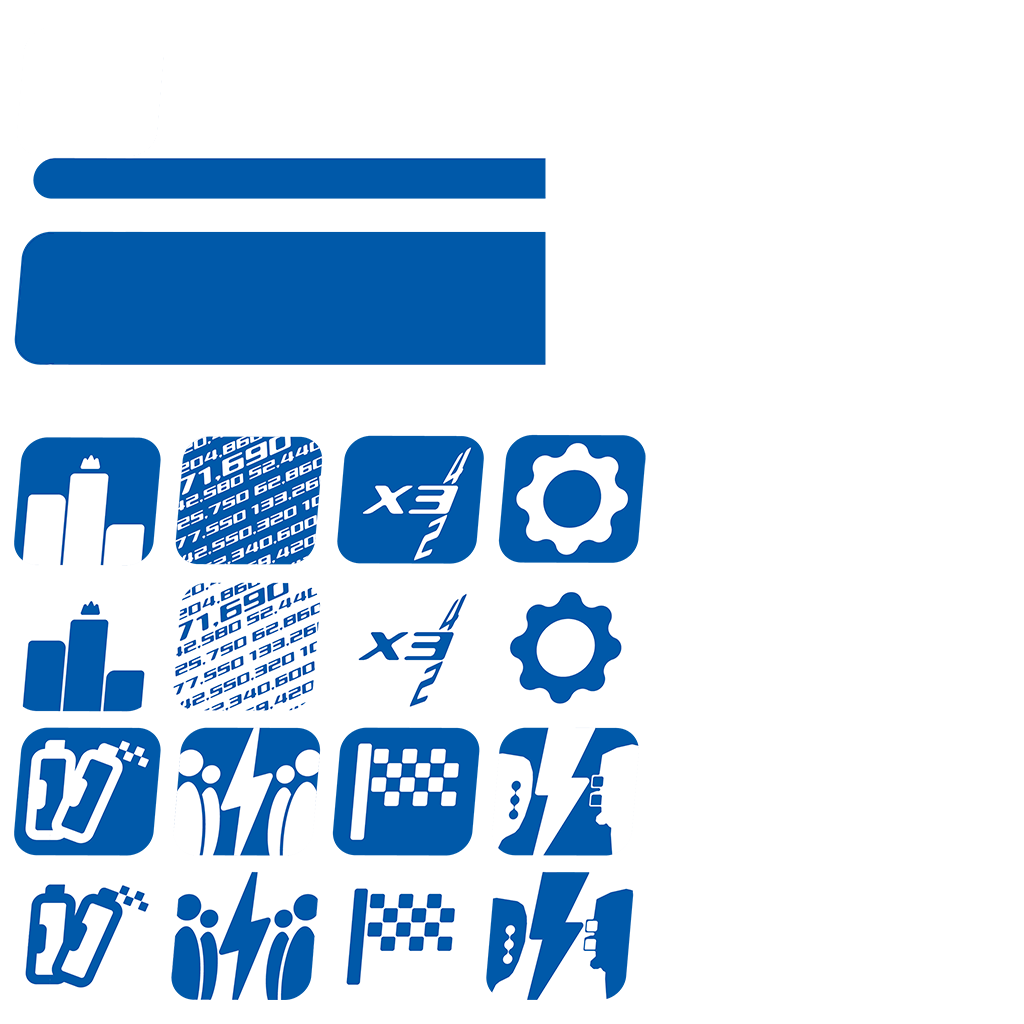
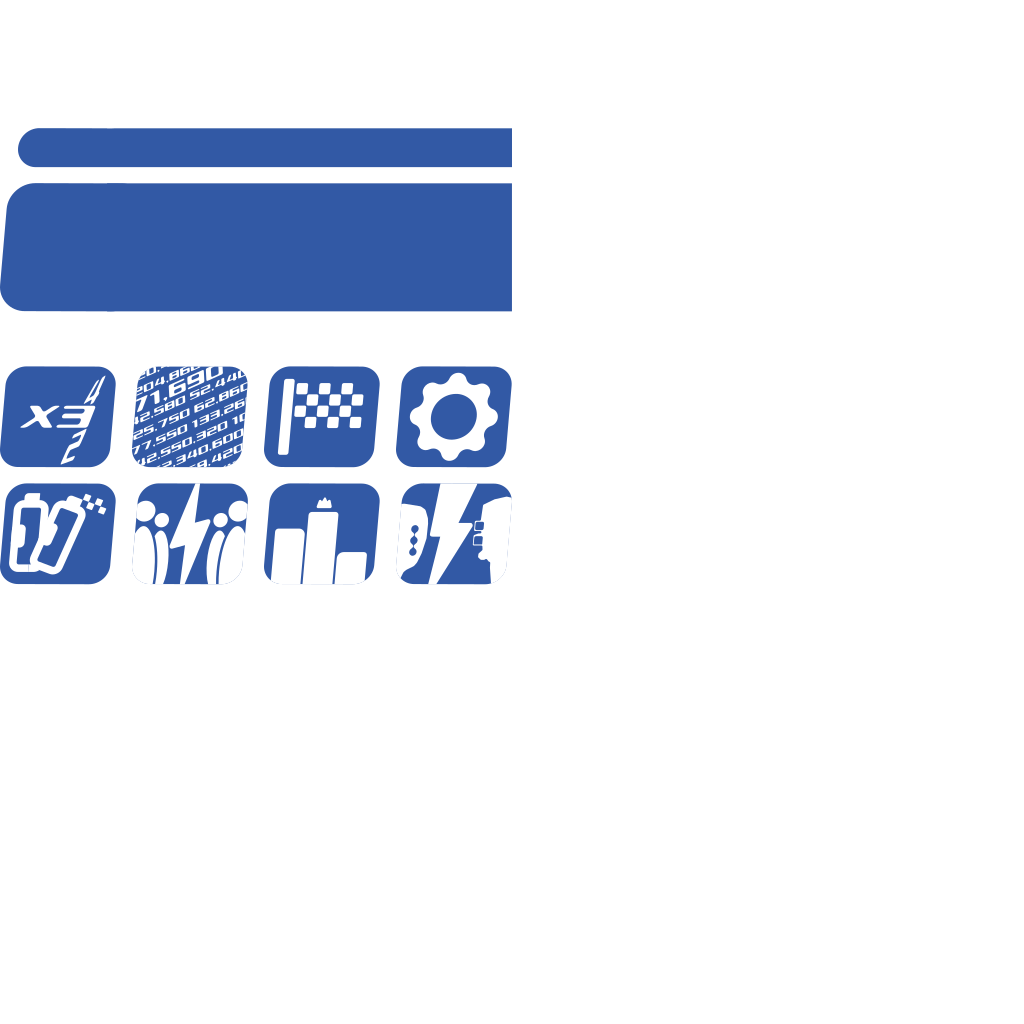
Implement more optimized sprite sheet
Also adds wrap mode to TextureLoader

Changed region(s): [[0.0, 0.125, 0.6562, 1.0]]

diff --git a/SlopCrew.Plugin/UI/Phone/SlopCrewScrollView.cs b/SlopCrew.Plugin/UI/Phone/SlopCrewScrollView.cs
@@ -8,49 +8,55 @@ using UnityEngine.UI;
 namespace SlopCrew.Plugin.UI.Phone;
 
 public class SlopCrewScrollView : PhoneScroll {
-    private float buttonSpacing = 55.0f;
-    private float buttonTopMargin = -110.0f;
     private AppSlopCrew? slopCrewApp;
 
     private Sprite? buttonSprite;
     private Sprite? buttonSpriteSelected;
-    private Sprite?[] buttonIcons = new Sprite?[3];
+    private Sprite?[] buttonIcons = new Sprite?[AppSlopCrew.EncounterCount];
 
-    private static readonly Vector2 ButtonSize = new Vector2(535.0f, 175.0f);
-    private static readonly Vector2 IconSize = new Vector2(147.0f, 129.0f);
-    private const float ButtonScale = 1.9f;
-    private const float IconScale = 1.666f;
+    private static readonly Vector2Int SpriteSheetSize = new Vector2Int(1024, 1024);
+    private const float SpriteSheetPadding = 16.0f;
+
+    private static readonly Vector2 ButtonSpriteSize = new Vector2(512.0f, 167.0f);
+    private static readonly Vector2 IconSpriteSize = new Vector2(116.0f, 101.0f);
+    private static readonly float IconSpriteGridHeight = SpriteSheetSize.y - (ButtonSpriteSize.y + SpriteSheetPadding) * 2.0f - IconSpriteSize.y;
+
+    private const float ButtonScale = 2.0f;
+    private const float IconScale = 2.0f;
+
+    private const float ButtonSpacing = 40.0f;
+    private static readonly float ButtonTopMargin = -120.0f;
 
     public CanvasGroup? CanvasGroup { get; private set; }
 
     private void LoadSprites() {
         var phoneSheet =
-            TextureLoader.LoadResourceAsTexture("SlopCrew.Plugin.res.phone_app_sheet.png", 1024, 1024, false);
+            TextureLoader.LoadResourceAsTexture("SlopCrew.Plugin.res.phone_app_sheet.png", SpriteSheetSize.x, SpriteSheetSize.y, false, TextureWrapMode.Clamp);
 
         var centerPivot = new Vector2(0.5f, 0.5f);
-        var height = phoneSheet.height;
 
-        buttonSpriteSelected =
-            Sprite.Create(phoneSheet, new Rect(11.0f, height - 25.0f - ButtonSize.y, ButtonSize.x, ButtonSize.y),
+        this.buttonSpriteSelected =
+            Sprite.Create(phoneSheet, new Rect(0.0f, SpriteSheetSize.y - ButtonSpriteSize.y, ButtonSpriteSize.x, ButtonSpriteSize.y),
                           centerPivot, 100.0f);
-        buttonSprite =
-            Sprite.Create(phoneSheet, new Rect(11.0f, height - 231.0f - ButtonSize.y, ButtonSize.x, ButtonSize.y),
+        this.buttonSprite =
+            Sprite.Create(phoneSheet, new Rect(0.0f, SpriteSheetSize.y - (ButtonSpriteSize.y * 2.0f) - SpriteSheetPadding, ButtonSpriteSize.x, ButtonSpriteSize.y),
                           centerPivot, 100.0f);
 
-        buttonIcons[0] =
-            Sprite.Create(phoneSheet, new Rect(337.0f, height - 437.0f - IconSize.y, IconSize.x, IconSize.y),
+        var iconSizeWithPadding = IconSpriteSize.x + SpriteSheetPadding;
+        this.buttonIcons[0] =
+            Sprite.Create(phoneSheet, new Rect(0.0f, IconSpriteGridHeight, IconSpriteSize.x, IconSpriteSize.y),
                           centerPivot, 100.0f);
-        buttonIcons[1] =
-            Sprite.Create(phoneSheet, new Rect(175.0f, height - 437.0f - IconSize.y, IconSize.x, IconSize.y),
+        this.buttonIcons[1] =
+            Sprite.Create(phoneSheet, new Rect(iconSizeWithPadding, IconSpriteGridHeight, IconSpriteSize.x, IconSpriteSize.y),
                           centerPivot, 100.0f);
-        buttonIcons[2] =
-            Sprite.Create(phoneSheet, new Rect(333.0f, height - 727.0f - IconSize.y, IconSize.x, IconSize.y),
+        this.buttonIcons[2] =
+            Sprite.Create(phoneSheet, new Rect(iconSizeWithPadding * 2.0f, IconSpriteGridHeight, IconSpriteSize.x, IconSpriteSize.y),
                           centerPivot, 100.0f);
     }
 
     private void CreatePrefabs(GameObject arrowObject, TextMeshProUGUI titleObject) {
-        var scaledButtonSize = ButtonSize * ButtonScale;
-        var scaledIconSize = IconSize * IconScale;
+        var scaledButtonSize = ButtonSpriteSize * ButtonScale;
+        var scaledIconSize = IconSpriteSize * IconScale;
 
         // Main button
         GameObject button = new GameObject("SlopCrew Button");
@@ -146,12 +152,12 @@ public class SlopCrewScrollView : PhoneScroll {
     }
 
     public override void SetButtonPosition(PhoneScrollButton button, float posIndex) {
-        var buttonSize = this.m_AppButtonPrefab.RectTransform().sizeDelta.y + this.buttonSpacing;
+        var buttonSize = this.m_AppButtonPrefab.RectTransform().sizeDelta.y + ButtonSpacing;
         var rectTransform = button.RectTransform();
 
         var newPosition = new Vector2 {
             x = rectTransform.anchoredPosition.x,
-            y = this.buttonTopMargin - ((posIndex - (this.SCROLL_RANGE / 2.0f)) * buttonSize) -
+            y = ButtonTopMargin - ((posIndex - (this.SCROLL_RANGE / 2.0f)) * buttonSize) -
                 (this.SCROLL_RANGE % 2.0f == 0.0f ? buttonSize / 2.0f : 0.0f)
         };
 

diff --git a/SlopCrew.Plugin/UI/TextureLoader.cs b/SlopCrew.Plugin/UI/TextureLoader.cs
@@ -5,7 +5,7 @@ using UnityEngine;
 namespace SlopCrew.Plugin.UI;
 
 public class TextureLoader {
-    public static Texture2D LoadResourceAsTexture(string path, int width, int height, bool generateMipMaps = true) {
+    public static Texture2D LoadResourceAsTexture(string path, int width, int height, bool generateMipMaps = true, TextureWrapMode wrapMode = TextureWrapMode.Repeat) {
         var stream = Assembly.GetExecutingAssembly().GetManifestResourceStream(path);
         if (stream is null) throw new Exception($"Could not load texture at path: {path}");
 
@@ -16,6 +16,7 @@ public class TextureLoader {
         }
 
         var texture = new Texture2D(width, height, TextureFormat.RGBA32, generateMipMaps, false);
+        texture.wrapMode = wrapMode;
         texture.LoadImage(bytes);
         texture.Apply();
 
@@ -23,7 +24,7 @@ public class TextureLoader {
     }
 
     public static Sprite LoadResourceAsSprite(string path, int width, int height, float pivotX = 0.5f, float pivotY = 0.5f) {
-        Texture2D texture = LoadResourceAsTexture(path, width, height, false);
+        Texture2D texture = LoadResourceAsTexture(path, width, height, false, TextureWrapMode.Clamp);
         return Sprite.Create(texture, new Rect(0.0f, 0.0f, texture.width, texture.height), new Vector2(pivotX, pivotY), 100.0f);
     }
 }
